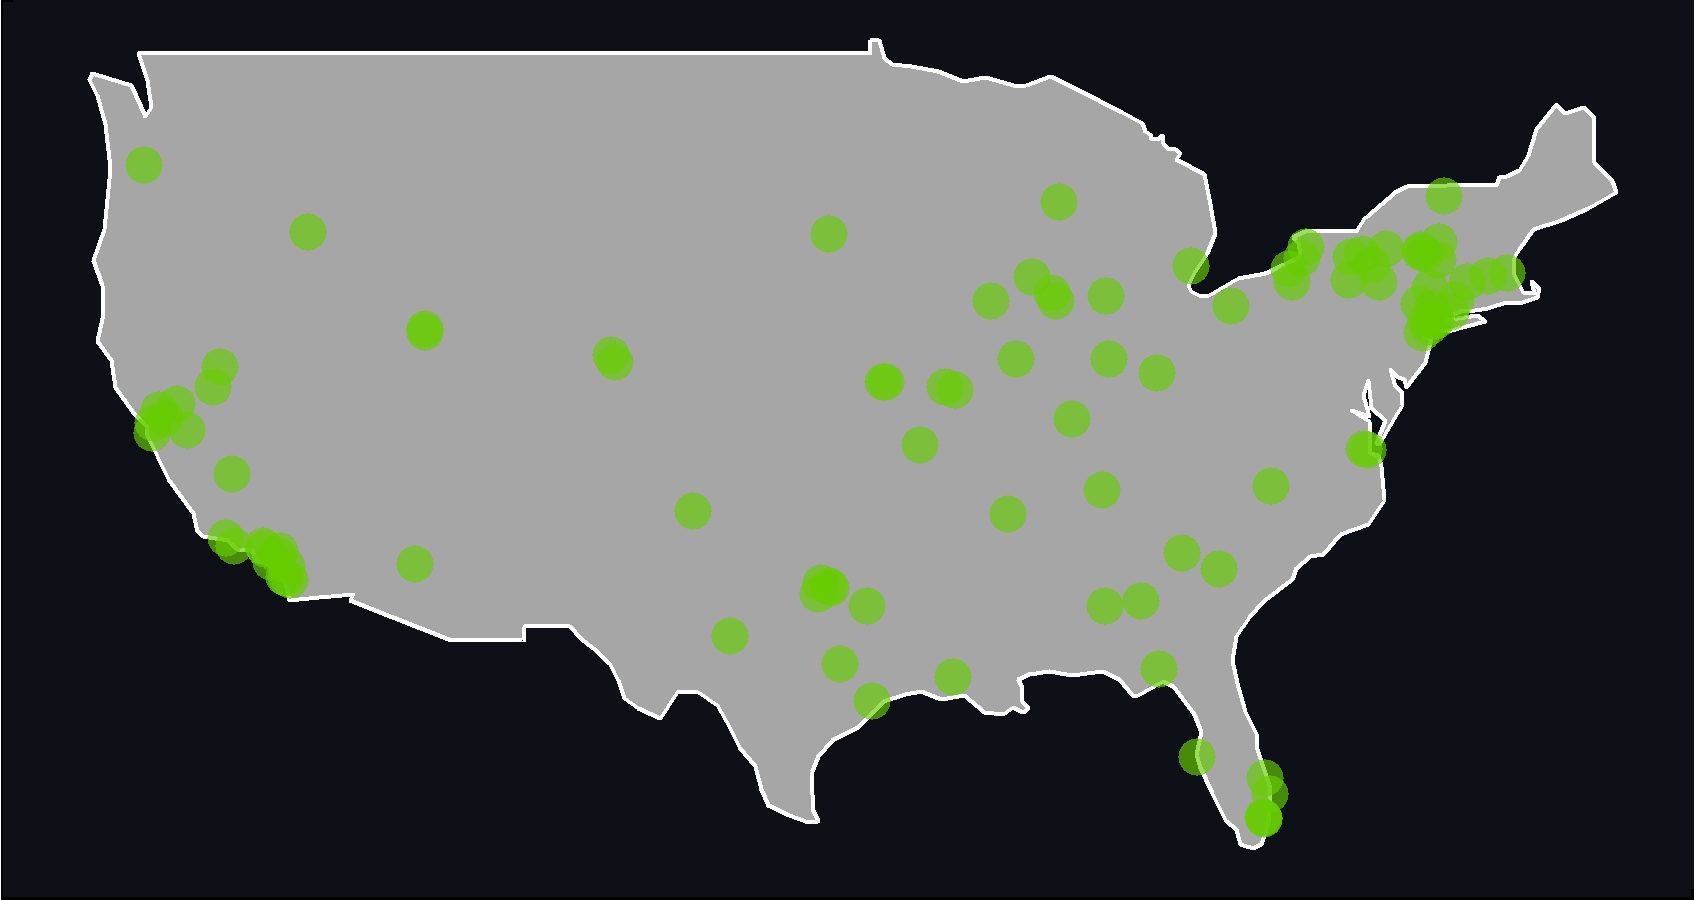
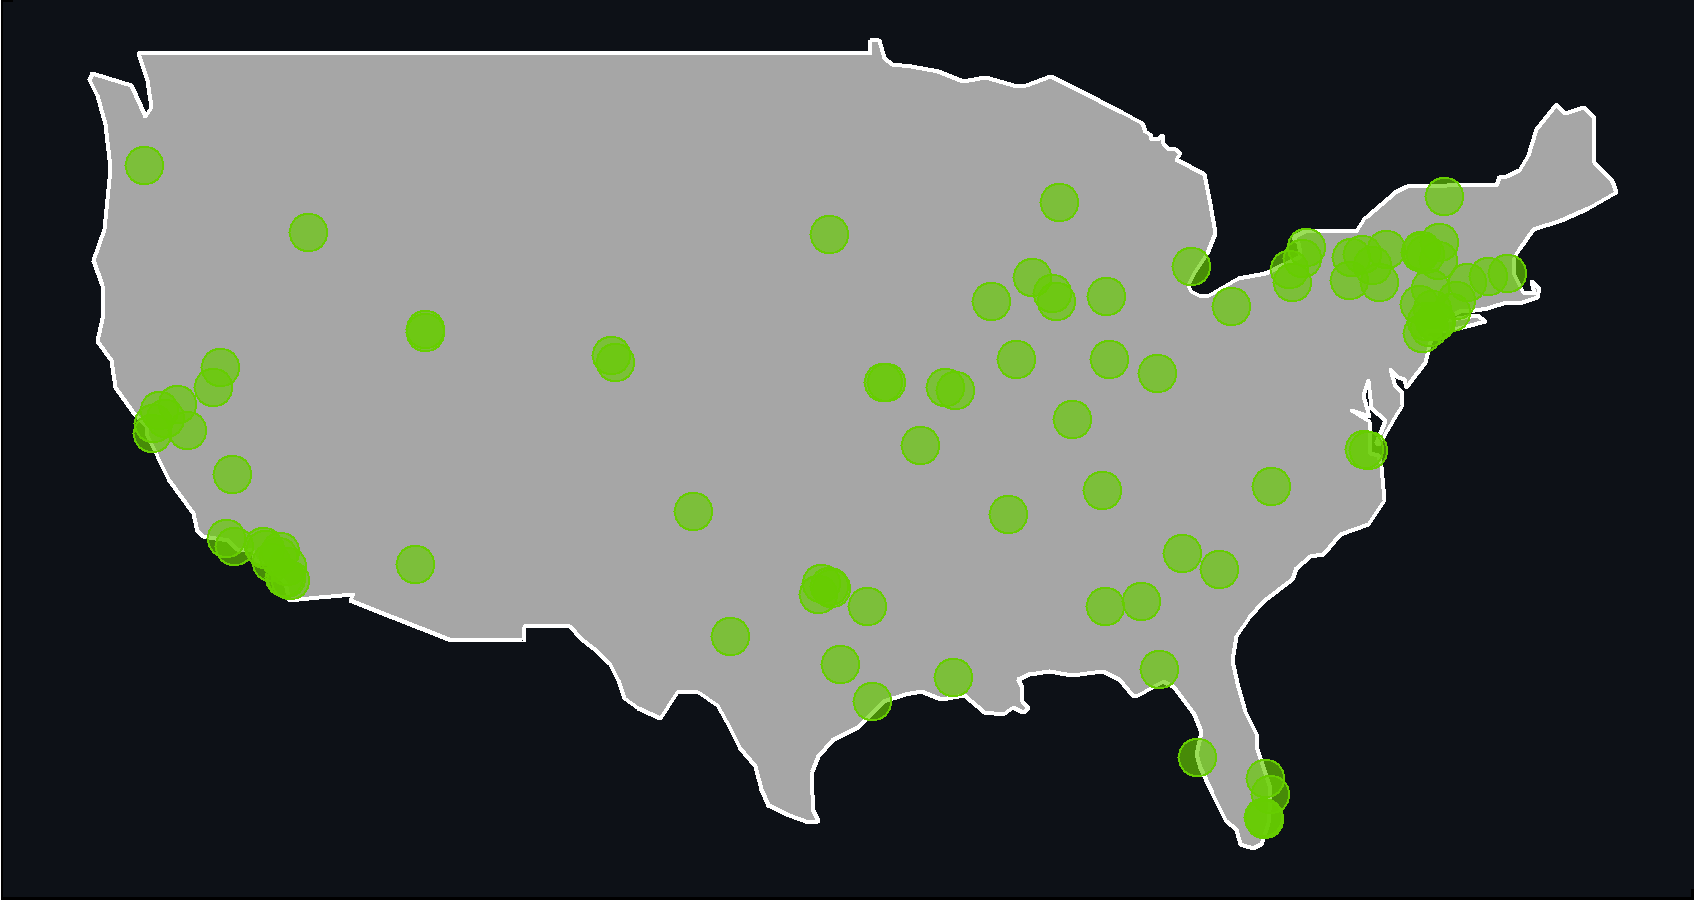
update readme

diff --git a/README.md b/README.md
@@ -96,6 +96,11 @@ ggplot() +
           shape = 21,
           fill = "chartreuse3", color = "NA",
           alpha = .65) +
+  geom_sf(data = cit_sf,
+          size = 4,
+          shape = 21,
+          fill = "NA", color = "chartreuse3",
+          alpha = 1.0) +
   theme_minimal() +
   theme(panel.background = element_rect(fill = "#0D1117",
                                         color = "#0D1117"),
